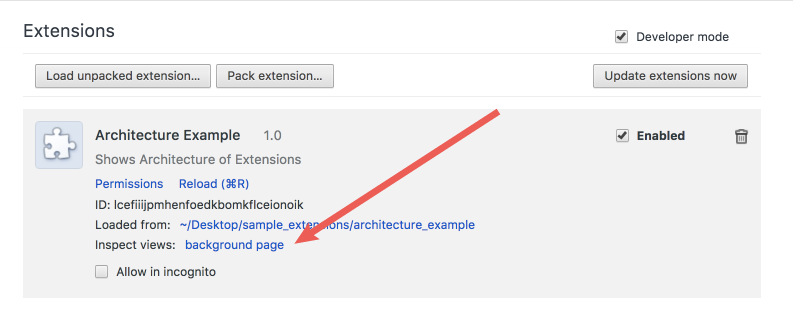
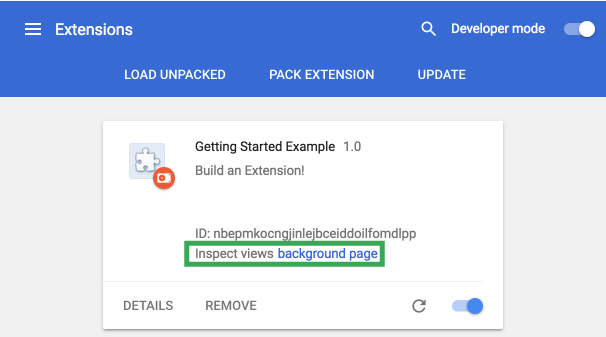
[Extension Docs]Get Started Tutorial Screen Shot Update
Extensions management page has a new UI.
Current screen shots of page are outdated.
This CL updates the screen shots in the Get Started Tutorial
to match the new UI.

Bug: 824766
Commit-Queue: Crystal Lambert <crystallambert@chromium.org>
Cr-Commit-Position: refs/heads/master@{#545084}

diff --git a/chrome/common/extensions/docs/templates/articles/getstarted.html b/chrome/common/extensions/docs/templates/articles/getstarted.html
@@ -64,15 +64,16 @@
     </ul>
   </li>
   <li>
-    Enable Developer Mode by checking the box next to <strong>Developer mode</strong>.
+    Enable Developer Mode by clicking the toggle switch
+    next to <strong>Developer mode</strong>.
   </li>
   <li>
-    Click the <strong>Load unpacked extension...</strong> button
+    Click the <strong>LOAD UNPACKED</strong> button
     and select the extension directory.
   </li>
 </ol>
 <img src="{{static}}/images/get_started/load_extension.png"
-  height="200"
+  height="300"
   alt="Load Extension" />
 <p>
   Ta-da!
@@ -161,7 +162,7 @@
   with a blue link, <strong>background page</strong>.
 </p>
 <img src="{{static}}/images/get_started/view_background.png"
-  height="200"
+  height="300"
   alt="Inspect Views" />
 <p>
   Click the link to view the background script's console log,
@@ -467,11 +468,18 @@
   }
 </pre>
 <p>
-  Reload the extension then select the new options link to view the page,
+  Reload the extension and click <strong>DETIALS</strong>.
+</p>
+<img src="{{static}}/images/get_started/click_detials.png"
+  height="300"
+  alt="Inspect Views" />
+<p>
+  Scroll down the detials page and select <strong>Extension options</strong>
+  to view the options page,
   although it will currently appear blank.
 </p>
 <img src="{{static}}/images/get_started/options.png"
-  height="200"
+  height="500"
   alt="Inspect Views" />
 <p>
  Last step is to add the options logic.
